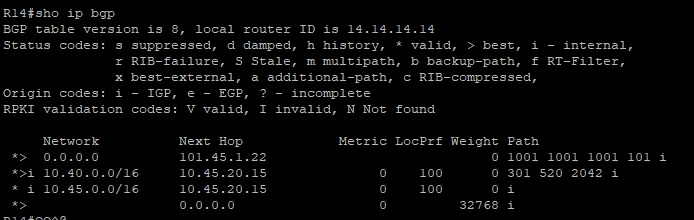
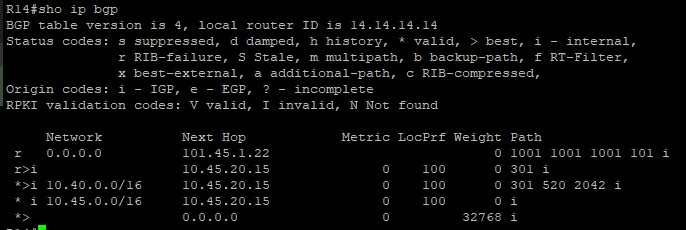
BGP_corrected

diff --git a/Homeworks/06_BGP/прочтименя_BGP.md b/Homeworks/06_BGP/прочтименя_BGP.md
@@ -208,46 +208,40 @@ maximum-paths 2
 5) Убедиться, что связность не пострадала  
 
 ## Решение:
-## 1) Под "транзитным" трафиком решено понимать все, что зародилось где-то кроме известных нам AS.
+## 1) "Тарнзитом" мы становимся, когда объявляем через себя одному из соседей префиксы, полученные от другого. В этом смысле лучший способ - не анонсировать ничего, кроме своих внутренних сетей.
 ### R14:
 ``` 
 !
-ip as-path access-list 10 permit _2042$
-ip as-path access-list 10 permit _101$
-ip as-path access-list 10 permit _301$
-ip as-path access-list 10 permit _520$
+ip as-path access-list 10 permit ^$
 ip as-path access-list 10 deny .*
 !
 router bgp 1001
 !
-neighbor 101.45.1.22 filter-list 10 in
+neighbor 101.45.1.22 filter-list 10 out
 ```
 ### R15:
 ``` 
 !
-ip as-path access-list 10 permit _2042$ | _520$ | _301$ | _101$
+ip as-path access-list 10 permit ^$
 ip as-path access-list 10 deny .*
 !
 router bgp 1001
 !
-neighbor 102.45.1.21 filter-list 10 in
+neighbor 102.45.1.21 filter-list 10 out
 ```
 
-## 2) В контексте префикс-листов было принято решение понимать транзитными те префиксы, которые не имеют отношения к известным нам.
+## 2) Префикс-листом также блокируем анонсы наружу чего бы то ни было, кроме собственных внутренних сетей.
 ### R18:
 ``` 
 !
-ip prefix-list PL_IN seq 5 permit 10.0.0.0/8 ge 16 le 24
-ip prefix-list PL_IN seq 10 permit 100.0.0.0/8 ge 16 le 24
-ip prefix-list PL_IN seq 15 permit 101.0.0.0/8 ge 16 le 24
-ip prefix-list PL_IN seq 20 permit 102.0.0.0/8 ge 16 le 24
-ip prefix-list PL_IN seq 25 deny 0.0.0.0/0 le 32
+ip prefix-list PL_OUT seq 5 permit 10.40.0.0/16
+ip prefix-list PL_OUT seq 10 deny 0.0.0.0/0 le 32
 !
-router bgp 1001
+router bgp 2042
 !
-neighbor 100.40.1.24 prefix-list PL_IN in
+neighbor 100.40.1.24 prefix-list PL_OUT out
 !
-neighbor 100.40.2.26 prefix-list PL_IN in
+neighbor 100.40.2.26 prefix-list PL_OUT out
 ```
 
 ## 3) Из Киторна в Москау должно прилетать только умолчание (да, ручное умолчание опять пришлось удалять)
@@ -257,27 +251,40 @@ neighbor 100.40.2.26 prefix-list PL_IN in
 router bgp 101
 !
 neighbor 101.45.1.14 default-originate
-neighbor 101.45.1.14 prefix-list PL_OUT out
+``` 
+
+### R14
+``` 
 !
-ip prefix-list PL_OUT seq 5 deny 0.0.0.0/0 le 32
+ip prefix-list PL_IN seq 5 permit 0.0.0.0/0
+ip prefix-list PL_IN seq 10 deny 0.0.0.0/0 le 32
+!
+router bgp 1001
+!
+neighbor 101.45.1.22 prefix-list PL_IN in
 ``` 
 ![alt-текст](https://github.com/StuporMundiOmsk/OTUS_Networks/blob/main/Homeworks/06_BGP/R14_BGP.jpg "R14_BGP") 
 
 ## 4) Из Ламаса в Москау должно прилетать только умолчание и префикс Ленинграда (да, ручное умолчание опять пришлось удалять)
-### R21 (R15 начал адекватно воспринимать маршруты только после удаления AS-Path ACL из предыдущего подзадания):
+### R21:
 ```
 !
-router bgp 101
+router bgp 301
 !
-neighbor 101.45.1.14 default-originate
-neighbor 101.45.1.14 prefix-list PL_OUT out
-!
-!
-ip prefix-list PL_OUT seq 5 permit 10.0.0.0/8 ge 16 le 24
-ip prefix-list PL_OUT seq 10 deny 0.0.0.0/0 le 32
+neighbor 102.45.1.15 default-originate
 !
 ``` 
-![alt-текст](https://github.com/StuporMundiOmsk/OTUS_Networks/blob/main/Homeworks/06_BGP/R21_advertised.jpg "R21_advertised")
+### R15
+``` 
+!
+ip prefix-list PL_IN seq 5 permit 0.0.0.0/0
+ip prefix-list PL_IN seq 10 permit 10.40.0.0/16	 
+ip prefix-list PL_IN seq 15 deny 0.0.0.0/0 le 32
+!
+router bgp 1001
+!
+neighbor 102.45.1.21 prefix-list PL_IN in
+``` 
 ![alt-текст](https://github.com/StuporMundiOmsk/OTUS_Networks/blob/main/Homeworks/06_BGP/R15_BGP.jpg "R15_BGP")
 
 ## 5) Специально выбраны другие писюки, чтобы не создавалось в этих многочисленных пингах впечатление обмана!
